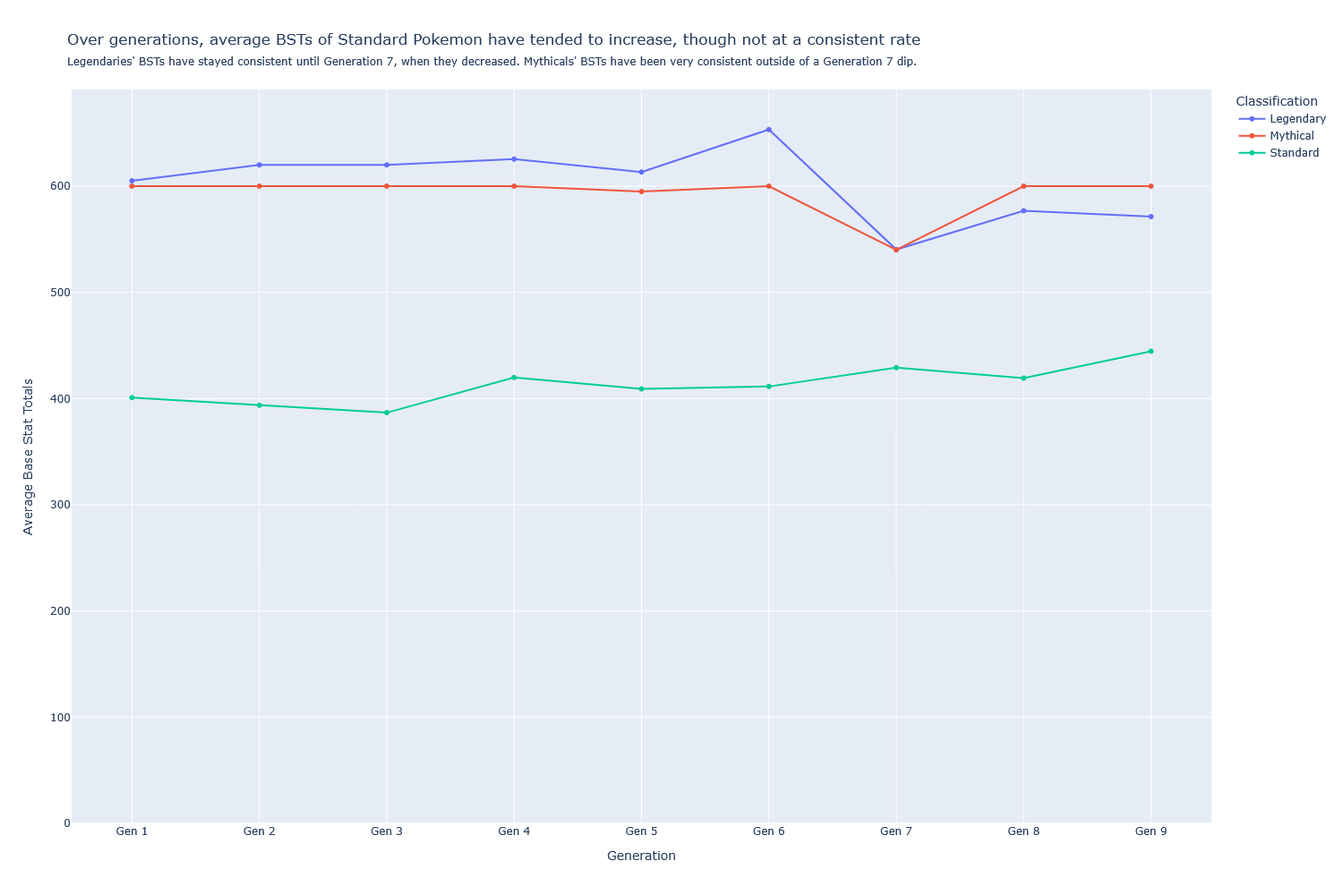
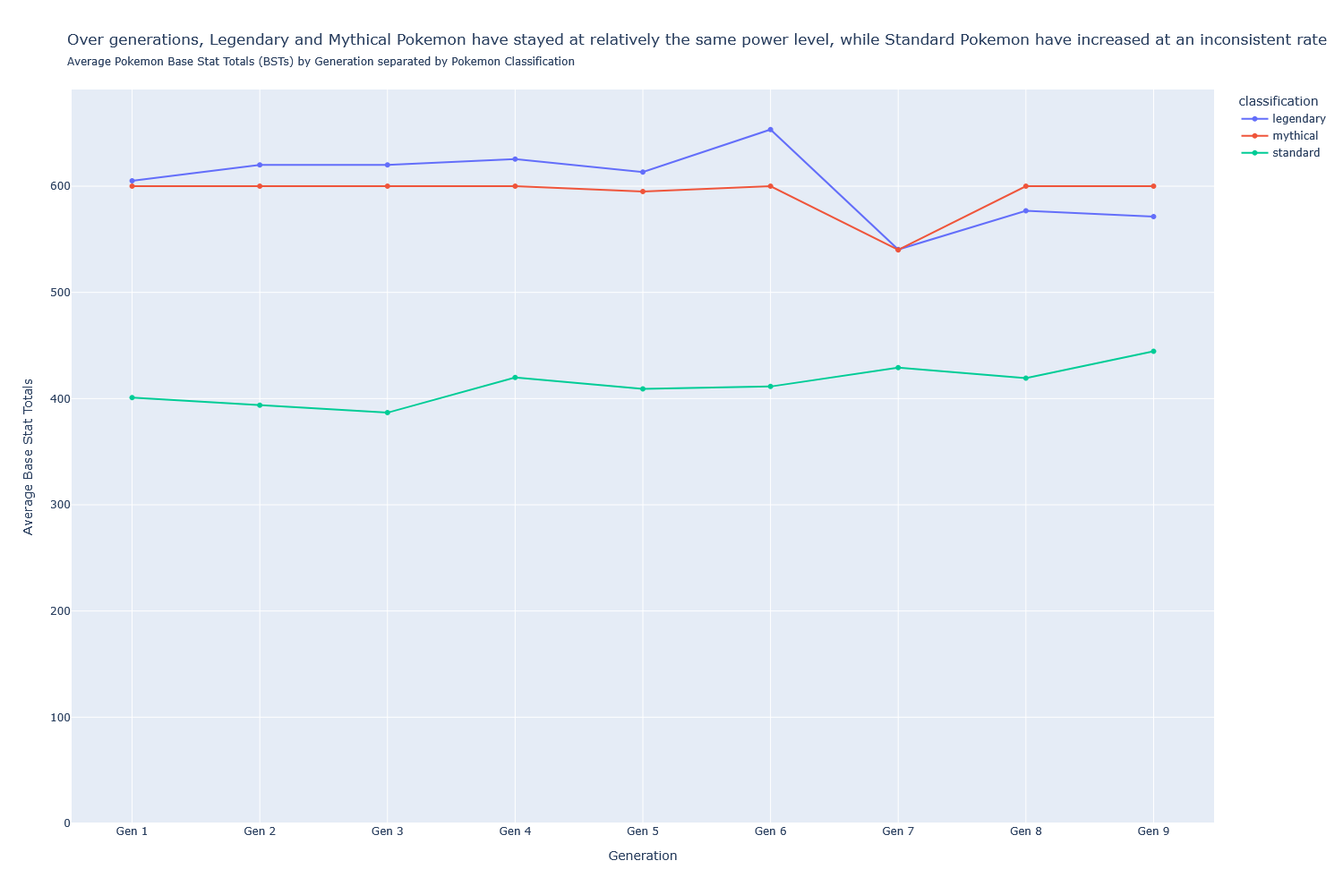
Finished second draft of project overall by finishing second draft of website report

diff --git a/docs/index.md b/docs/index.md
@@ -1,17 +1,13 @@
 # Is it worth it to catch them all? Pokemon and power creep
 **An ME204 final project**
 
-[use just and index.md if working solo, but if working with others, add links to their invidiual pages like below]
-
-- [AEG-1309](./AEG-1309.md)
-
 ## The question
 
 Has Pokemon experienced power creep over its 30 years of existence? If so, to what extent has power creep been experienced?
 
 ### Why does this question matter?
 
-Power creep is defined as "the strengthening of [a] game and its pieces over time possibly to the point where new pieces invalidate older ones" (Magruder, 2022)[https://journals.sagepub.com/doi/full/10.1177/15554120211050812#bibr20-15554120211050812]. This occurs because designers of games want to keep them fun and exciting, because fun and exciting translates to more revenue (Magic the Gathering on new cards released, 2020)[https://magic.wizards.com/en/news/card-preview/fire-it-2019-06-21]. However, too much power creep can leave a game unrecognizeable. One major example is Yu-Gi-Oh. Perform one search with the key word 'power creep yugioh' on Reddit and loads of posts from both Yu-Gi-Oh and non-Yu-Gi-Oh related subreddits will come up, some as recently as two months ago, but others as far back as five years ago.
+Power creep is defined as "the strengthening of [a] game and its pieces over time possibly to the point where new pieces invalidate older ones" [(Magruder, 2022)](https://journals.sagepub.com/doi/full/10.1177/15554120211050812#bibr20-15554120211050812). This occurs because designers of games want to keep them fun and exciting, because fun and exciting translates to increased revenue [(Magic the Gathering on new cards released, 2020)](https://magic.wizards.com/en/news/card-preview/fire-it-2019-06-21). However, too much power creep can leave a game unrecognizeable. One such example of this is Yu-Gi-Oh. Perform one search with the key word 'power creep yugioh' on Reddit and loads of posts from both Yu-Gi-Oh and non-Yu-Gi-Oh related subreddits will come up. Some of these posts were made as recently as two months ago, others as far back as five years.
 
 ![](assets/yugiohpowercreep1.png)
 
@@ -19,78 +15,90 @@ Power creep is defined as "the strengthening of [a] game and its pieces over tim
 
 ![](assets/yugiohpowercreep3.png)
 
- With new cards coming into the meta all the time, players can potentially feel the need to keep purchasing new cards if they want to keep up, which may lead to their exit from the game. (Reddit thread making such a claim)[https://www.reddit.com/r/yugioh/comments/1k9zzvg/power_creep/]
+ With new cards coming into the meta all the time, players can potentially feel the need to keep purchasing new cards if they want to keep up, which may lead to their exit from the game [(Reddit thread making such a claim)](https://www.reddit.com/r/yugioh/comments/1k9zzvg/power_creep/).
 
-Pokemon has experienced a lot of longevity as a franchise thus far, and with parents sharing their love of Pokemon with their kids, it seems as though it will continue far into the future (Amenabar, 2022)[https://www.washingtonpost.com/video-games/2022/08/10/pokemon-starter-parents-kids/]. But, if power creep is too high, that longevity may start to fade.
+Pokemon as a franchise has demonstrated a great deal of longevity thus far, and with parents sharing their love of Pokemon with their kids, it seems as though this longevity won't fade for a long time [(Amenabar, 2022)](https://www.washingtonpost.com/video-games/2022/08/10/pokemon-starter-parents-kids/). But, if power creep is too high, this claim may not come true.
+
+In essence, by measuring power creep, we may be able to predict how long a franchise will last.
 
 ### How are you going to measure power creep?
 
-Pokemon is a complex, ever-growing game. With each new generation we get new abilities, new moves, updates to existing mechanics, brand-new gimmicks, tweaks to the Pokemon themselves, etc. etc. With so many moving parts, there are many different avenues through which to measure power creep. The avenue I am going to be choosing, however, is base stat totals (BSTs), which is a measure of the raw potential of a Pokemon's power. In game, a Pokemon's stats are affected by many different factors, which make it hard to measure the pure effect of base stats. In theory, however, the higher a Pokemon's stats are, the more powerful they are, so it is a good baseline measure of the overall power level in Pokemon.
+Pokemon is a complex, ever-growing game. With each new Generation we get new abilities, new moves, updates to existing mechanics, brand-new gimmicks, tweaks to the Pokemon themselves, etc. etc. With so many moving parts, there are many different avenues through which to measure power creep.
 
-Additionally, since BSTs are represented by numbers, they make for easy comparisons. A larger number means a Pokemon is more powerful stats-wise; there's little room for interpretation.
+I am going to measure power creep through base stat totals (BSTs), which is a measure of a Pokemon's raw potential. 
+
+In game, a Pokemon's stats are affected by many different factors, and stats are not the only thing, or even the main thing, that matters when determining the outcome of a Pokemon battle. For instance, Slaking, a Pokemon with a BST of 670, has the terrible ability Truant, making it so that it can only move every two turns. In theory, however, the higher a Pokemon's stats are, the more powerful they are, so it serves as a good baseline measure of the overall power level in Pokemon. Additionally, since BSTs are represented by numbers, they make for easy, clear-cut comparisons. A larger number means a Pokemon is more powerful, at least stats-wise.
 
 ### What's the baseline you're going to compare power creep to?
 
-All future Generations' BST is going to be compared to Generation 1 BST. If power creep has not occurred, then BSTs in Generation 9 should be about the same as in Generation 1. It doesn't need to be exactly the same; there will be minor fluctuations in BST across the generations with different Pokemon makeup. However, if there is a noticeable difference between later generations in Generation 1, then there is evidence that power creep has occurred.
+All BSTs are going to be compared to Generation 1 BSTs. If Pokemon has not experienced power creep, then BSTs in Generation 9 should be about the same as in Generation 1. Of course, BSTs won't be exactly the same between Generation to Generation, but if there is a noticeable difference between later Generations and Generation 1, then there is evidence of power creep.
 
-### But there are lots of different Pokemon, with lots of different forms! Are they going to be included in your analysis?
+### But there are lots of different Pokemon, with lots of different forms! Is every Pokemon going to be included in your analysis?
 
-Not every Pokemon and Pokemon form is going to be included in this analysis. Some of this is for the best: all of the different costumes for Cosplay Pikachu in Omega Ruby/Alpha Sapphire, for example, might affect how that Pokemon does in the contests and what moves it can learn, but it does not count as a 'new' Pokemon nor are its base stats affected. It is similar to a Mega evolution in that it was introduced purely for a gimmick and is tied to one Generation. However, it would do some forms better to be included in this analysis: Normal Form Terapagos is the form of choice for this analysis, yet it cannot be used in a meaningful way in game (it will always transform into its Terastal Form at the start of every battle) and has significantly worse base stats. Excluding Cosmoem (the first in the Solgaleo/Lunala evolution line) from the analysis of Legendary Pokemon would have been beneficial for the same reason.
+Not every Pokemon and Pokemon form is going to be included in this analysis. Some of this is for the best: there might be many different forms of Cosplay Pikachu in Omega Ruby/Alpha Sapphire, but these are not new Pokemon, nor do they affect Pikachu's BST. However, with the way my filter works, some of the Pokemon included does hinder my analysis: Normal Form Terapagos is the form used in the analysis, yet it cannot be used in a meaningful way in game (it will always transform into its Terastal Form at the start of every battle) and has significantly worse base stats.
 
-In this analysis:
-- There are no Megas or Gigantimaxes included, since they are more 'gimmicks' confined to a Generation rather than actual new Pokemon
-- If a Pokemon has alternate forms, then only one of those forms will be used (ex: Wormadam has three forms but only one of them will be used in the analysis). This includes regional variants of Pokemon (only the regional form that the Pokemon was introduced in will be used)  and Pokemon that use a Held Item to transform into a different form (ex: Zacian becomes Zacian Crowned, but Zacian Crowned is not included)
-- Pokemon who are fusions of two or more Pokemon (ex: Kyurem White, Kyurem Black, Calyrex Shadow Rider, Calyrex ) will only have their unfused forms counted (Kyurem and Reshiram for Kyurem White, for example), not the whole fusion
-- Pokemon with purely visual differences (ex: Vivillon) are automatically excluded
+Overall, here are the Pokemon that were filtered out of the dataset:
+- All Megas and Gigantimaxes, since they are more 'gimmicks' confined to a Generation rather than actual new Pokemon
+- If a Pokemon has alternate forms, then only one of those forms is included (ex: Wormadam has three forms but only Wormadam Plant Cloak is included). This includes regional variants of Pokemon (ex: no Alolan Ratatta) and Pokemon that use a Held Item to transform into a different form (ex: Zacian becomes Zacian Crowned, but Zacian Crowned is not included)
+- Pokemon who are fusions of two or more Pokemon (ex: Kyurem White, Kyurem Black, Calyrex Shadow Rider, Calyrex Ice Rider). These Pokemon will only have their unfused forms counted (ex: Kyurem and Reshiram for Kyurem White)
+- Pokemon with purely visual differences (ex: Vivillon)
 
 ### What about sub-categories of Pokemon, like the Ultra Beasts or Paradox Pokemon? How are they going to be treated?
 
-This analysis uses three overall classifications of Pokemon: Standard, Legendary, and Mythical, which are classifications given by The Pokemon Company to the Pokemon themselves. Sub-categories like Ultra Beasts and Paradox Pokemon are grouped in with Standard Pokemon as they were not given any special label by The Pokemon Company to differentiate themselves otherwise.
+This analysis uses three overall classifications of Pokemon: Standard, Legendary, and Mythical, which are classifications given by The Pokemon Company to the Pokemon themselves. Sub-categories, like Ultra Beasts and Paradox Pokemon, are grouped in with Standard Pokemon because they are one-off classes added for specific Generations and not classes that get new additions with every Generation. Since I want to do an over-time Generation comparison, it is better to group them in with Standard Pokemon. Baby Pokemon, though they are also given their own label by The Pokemon Company, are included under Standard Pokemon for the same reason.
 
-I believe it makes sense to group these sub-categories in with Standard Pokemon as it makes a good measure of power creep: The Pokemon Company are introducing these powerful new classes of Pokemon and then dropping them in the next Generation, thereby essentially artificially inflating the power level of a given Generation. This is not to say that The Pokemon Company is 'wrong' for doing this with their games; it is just to say that I consider it a measure of power creep. 
+I believe it makes sense to group these sub-categories in with Standard Pokemon as it makes a good measure of power creep: The Pokemon Company are introducing these powerful new classes of Pokemon for one Generation and then dropping them in the next, thereby artificially inflating the power level of that given Generation. This is not to say that The Pokemon Company is 'wrong' for doing this with their games; it is just to say that it makes for a good measure of power creep.
+
+### Some Pokemon have had their stats changed between Generations. How are you going to deal with that?
+
+All Pokemon, regardless of whether they have had their stats changed between Generations or not, are going to have their current base stats used. Though this will potentially skew the data, most often, when Pokemon have their stats changed, they're only changed in one category by 10 points. As such, I do not believe the data will be heavily skewed.
 
 ## The findings
 
-### Overall, Standard Pokemon have been getting stronger with each generation
+### Overall, Standard Pokemon have been getting stronger with each Generation
 
 ![](assets/bst_over_time.png)
 
-Standard Pokemon, mostly after Generation 4, have higher BSTs than their earlier Generation counterparts. Generation 1 sits at around a 400 BST average; since Generation 4, Pokemon have been above that average with Generation 9 coming in at around 440 BST. It has not been a consistent increase across all generations, however; Generations 2 and 3 had a lower average BST than Generation 1, and after a peak in Generation 4, Generations 5 and 6 decreased again, but they never quite returned to the level of Generation 1. Still, over time, there is a general upward trend.
+Standard Pokemon after Generation 4 have higher BSTs than their earlier Generation counterparts. Generation 1 sits at around a 400 BST average; since Generation 4, Pokemon have been above that average. Generation 9, the most recent Generation, has the highest average BST at around 440. It has not been a consistent increase across all generations, however; Generations 2 and 3 had a lower average BST than Generation 1, and after a peak in Generation 4, BSTs in Generations 5 and 6 decreased again. Still, over time, there is a general upward trend, and after Generation 4, average BSTs stay higher than the Generation 1 average.
 
-Legendaries and Mythicals, on the other hand, tell a different story. Legendaries and Mythicals have been consistently stronger than Standard Pokemon for each Generation, and this remains true even when their power level takes a dip at Generation 7 (likely due to Cosmoem and Cosmog having lower BSTs by virtue of being earlier in an evolution line, at least for Legendaries). Mythicals bounce back in power level quickly in Generations 8 and 9, while Legendaries stay lowered (likely because base Zacian and Zamazenta are used rather than their Crowned versions for Generation 8, and the variation of Terapagos of choice is its Normal Form for Generation 9). Still, Generally, Legendaries and Mythicals hover around the 600 BST mark, Mythicals adhering to that benchmark more strictly than Legendaries.
+Legendaries and Mythicals, on the other hand, tell a different story. Legendaries and Mythicals have been consistently stronger than Standard Pokemon for each Generation, and this remains true even when their power level takes a dip in Generation 7 (likely due to Cosmog and Cosmoem having lower BSTs by virtue of being earlier in an evolution line). Mythicals bounce back in power level quickly in Generations 8 and 9, while Legendaries stay lowered in average BSTs . This is ikely because base Zacian and Zamazenta are used rather than their Crowned versions for Generation 8, and Terapagos's Normal Form, rather than its Terastal Form. Still, Legendaries and Mythicals tend hover around the 600 BST mark, Mythicals adhering to that benchmark more strictly than Legendaries. 
+
+The most important finding from the Legendary and Mythical lines on the graph is that they are a stronger class than Standard Pokemon, which is relevant for my next finding.
 
 
-### Legendaries and Mythicals have been getting more common with each generation
+### Legendaries and Mythicals have been getting more common with each Generation, even as less Pokemon are added overall
 
 ![](assets/leg_myth_prop.png)
 
-The Generation that had the most Pokemon added to it was Generation 5, at 156. After Generation 5, and with the exception of Generation 9, less than 100 Pokemon have been added with each Generation, and even when over 100 Pokemon are added in a Generation, it doesn't quite reach the height of Generations 1 and 5. Somne of the new Pokemon added in Generations 7 and 8 were regional variants, which were not included in this analysis, which can partially explain the low addition numbers. 
+The Generation that had the most Pokemon added to it was Generation 5, at 156. After Generation 5, and with the exception of Generation 9, less than 100 Pokemon have been added with each Generation, and even Generation 9's number of Pokemon does not reach the heights of Generations 1 and 5. The low addition numbers in Generations 7 and 8 can be partially explained with the exclusion of regional variants from this analysis, but not Generation 6.
 
-Despite less Pokemon being added, generally, in newer Generations, more and more of the new Pokemon added are Legendary and Mythical Pokemon. The proportion does not increase cleanly over the Generations, much like the increase of average BST over each Generation, but it is still noticeably higher in later Generations than it was in Generation 1. The proportion of Legendaries has increased noticeably, reaching its peak in Generation 7 with 1/8th of the introduced Pokemon being Legendaries. The proportion of Mythicals has returned to around Generation 1 levels in Generations 8 and 9, but Generations 3 through 7 have had increased proportions of Mythicals compared to Generation 1.
+Despite less Pokemon being added, generally, in newer Generations, more and more of the new Pokemon added are Legendary and Mythical Pokemon. The proportion does not increase cleanly over the Generations, much like the increase of average BSTs over each Generation, but it is still noticeably higher in later Generations than in Generation 1. 
 
-Legendaries and Mythicals are in a power class of their own. If these two types of Pokemon are becoming more and more common with each Generation, especially if less Pokemon overall are being added with each Generation, then there is less incentive to use the new Standard Pokemon if there are all these powerful Legendaries and Mythicals available for use. A decrease in rarity of these special classes of Pokemon is one indicator that power creep has occurred in Pokemon.
+The proportion of Legendaries has increased noticeably, reaching its peak in Generation 7 with 1/8th of the newly-introduced Pokemon being Legendaries. The proportion of Mythicals has returned to around Generation 1 levels in Generations 8 and 9, but Generations 3 through 7 have had increased proportions of Mythicals compared to Generation 1.
+
+Legendaries and Mythicals are in a power class of their own. If these two types of Pokemon are becoming more and more common with each Generation, especially with less added Pokemon overall, then there is less incentive to use the new Standard Pokemon. Why use a weaker Pokemon when super powerful Legendaries and Mythicals are more common and available for use? A decrease in rarity of these special classes of Pokemon is an indicator that power creep has occurred in Pokemon.
 
 
-### There is a higher proportion of Standard Pokemon over 500 BST in newer Generations than in older Generations
+### There is a higher proportion of Standard Pokemon over 500 BST in newer Generations than in older Generations, even as less Pokemon are added overall
 
 ![](assets/prop_500.png)
 
 As mentioned earlier, less Pokemon, generally, are being added in new Generations. However, much like Legendaries and Mythicals, Pokemon over 500 BST are becoming more and more common after Generation 5, reaching its peak in the latest Generation where over 1/3 of Standard Pokemon have a BST over 500.
 
-500 BST has been chosen as a threshold for a multitude of reasons. For one, it is around halfway between the Generation 1 average BST and the 600 BST threshold often used for Mythicals and Legendaries. If Generation 1 is our benchmark to compare everything else to, then it makes sense to derive a 'Powerful Pokemon' threshold from Generation 1. Additionally, after some research, you start to get into the upper-BST tiers of each type of Pokemon (excluding Legendaries and Mythicals) after the 500 BST mark (Pokemon Database Forum)[https://pokemondb.net/pokebase/355610/what-pokemon-have-the-best-stat-totals-of-each-type]. Therefore, 500 BST is a good threshold for what constitutes a more powerful Standard Pokemon. 
+500 BST has been chosen as a notable threshold for a couple of reasons. For one, it is around halfway between the Generation 1 average BST and the 600 BST mark that Legendaries and Mythicals reach. If Generation 1 is our benchmark to compare everything else to, then we should use Generation 1 metrics to derive a threshold from. Additionally, after some research, you start to get into the upper-BST tiers of each type of Pokemon (excluding Legendaries and Mythicals) after the 500 BST mark [(Pokemon Database Forum)](https://pokemondb.net/pokebase/355610/what-pokemon-have-the-best-stat-totals-of-each-type). Therefore, 500 BST is a good threshold for what constitutes a more powerful Pokemon. 
 
-For similar reasons as stated above, with more powerful Pokemon being added more frequently in more recent Generations, older, weaker Pokemon are being disincentivized from use in favor of these newer Pokemon. And, with less Pokemon being added in newer Generations, more powerful Pokemon means that less weaker Pokemon are being added, which is pumping up the overall average BST of each Generation (as seen in the graph above.) If there was no power creep, then the proportion of Pokemon over 500 BST would have stayed relatively the same as Generation 1 as in Generation 9. But, considering over 1/3 of Generation 9's Pokemon are over 500 BST compared to Generation 1's under 1/5, that is not the case. This is evidence that Pokemon has experienced some power creep over time.
+For similar reasons as stated above, with more powerful Pokemon being added more frequently in recent Generations, older, weaker Pokemon are being disincentivized from use in favor of these newer, stronger Pokemon. And, with less Pokemon being added in newer Generations, more powerful Pokemon being added means that less weaker Pokemon are being added, which is leading to the increased average BST of later Generations. Without power creep, the proportion of Pokemon over 500 BST would have stayed relatively the same as Generation 1 over every Generation. But, considering over 1/3 of Generation 9's Pokemon are over 500 BST compared to Generation 1's under 1/5, that is not the case. An increase in Pokemon over the 500 BST threshold is an indicator that power creep has occurred in Pokemon.
 
-## Limitations
+## Limitations of the analysis
 
-As stated earlier, not all forms of Pokemon were included in this analysis. The most detrimental exclusions from this list, I feel, are the regional variants of Pokemon being excluded from later Generations, especially 7 and 8. This would increase the amount of Pokemon added in those Generations and may change the proportions found in the above graphs.
+As stated earlier, not all forms of Pokemon were included in this analysis. I feel the most detrimental exclusions from this list are the regional variants, especially for Generations 7 and 8. This would increase the amount of Pokemon added in those Generations and may change the proportions found in the above graphs, as well as their overall average BST. A future analysis with stricter filtering criteria could be performed in the future to remedy this. Additionally, not all forms of all Legendaries were included in this list, including some Legendaries with extremely high BSTs. Adding these to the analysis might drastically change the picture of how Legendary Pokemon have evolved over each Generation, and might also change the proportions of Legendaries vs. Mythicals vs. Standard Pokemon added in each Generation.
 
-Additionally, weaker variants of some Legendaries were used in the analysis, and not all forms were included. Adding these to the analysis might drastically change the picture of how Legendary BSTs have evolved over each Generation, and might also change the proportions of Legendaries vs. Mythicals vs. Standard Pokemon added in each Generation.
+Not all of the BSTs used in this analysis reflect the BSTs of the Pokemon at the time they were added in their Generations, as stated earlier. This has the potential to introduce some skew in the data and might actually make the effects of power creep shown in the graphs above more pronounced, as often Pokemon have their stats added to rather than taken away from. Not using historical BSTs might affect the conclusions that can be drawn from these analyses.
 
-Finally, any claims I can make from my data about power creep in Pokemon can only be applied to how BSTs have changed over each Generation. There is no evidence of power creep in any of the other multitudes of mechanics present in Pokemon, or even in the gimmicks that have been introduced in the newer Generations, from Megas in Generation 6 to Terastallization in Generation 9. This analysis is only one part of the picture that is power creep in Pokemon.
+Finally, any claims I can make from my analyses about power creep in Pokemon can only be applied to how BSTs have changed over each Generation. I cannot draw any conclusions about the state of power creep in the other multitudes of mechanics present in Pokemon, or even in the gimmicks that have been introduced in the newer Generations, from Megas in Generation 6 to Terastallization in Generation 9. To get a full picture of power creep in Pokemon, more analyses will have to be conducted in the future.
 
 ## Conclusion
 
-The evidence that Pokemon has experienced power creep, at least in terms of BSTs, is not overwhelming, but it does exist. Over time, the BSTs of Standard Pokemon have been increasing, and the proportion of Pokemon added in each Generation over 500 BST has been increasing, as well. And, though Legendaries and Mythicals have not been increasing in power level over each Generation like Standard Pokemon have been, there have been more and more Legendary and Mythical Pokemon added each Generation, even though the overall amount of Pokemon added in each Generation is lower in later Generations than in earlier Generations, taking up space where Pokemon with less BSTs could be. Power creep is something almost all long-running series need to be wary of, and Pokemon is no exception.
+The evidence that Pokemon has experienced power creep, at least in terms of BSTs, exists, but it does not indicate overwhelming power creep. Over time, the BSTs of Standard Pokemon have been increasing, and the proportion of Pokemon added in each Generation over 500 BST has been increasing, as well, even though Pokemon added is less in later Generations. And, though Legendaries and Mythicals have not been increasing in power level over each Generation like Standard Pokemon have been, there have been more and more Legendary and Mythical Pokemon added each Generation, even though there are less Pokemon added in later Generations, as stated before. Of course, this conclusion that power creep does exist only applies to the BSTs of the Pokemon themselves and not to the series as a whole. Power creep is something almost all long-running series need to be wary of, and Pokemon is no exception.
 
 
